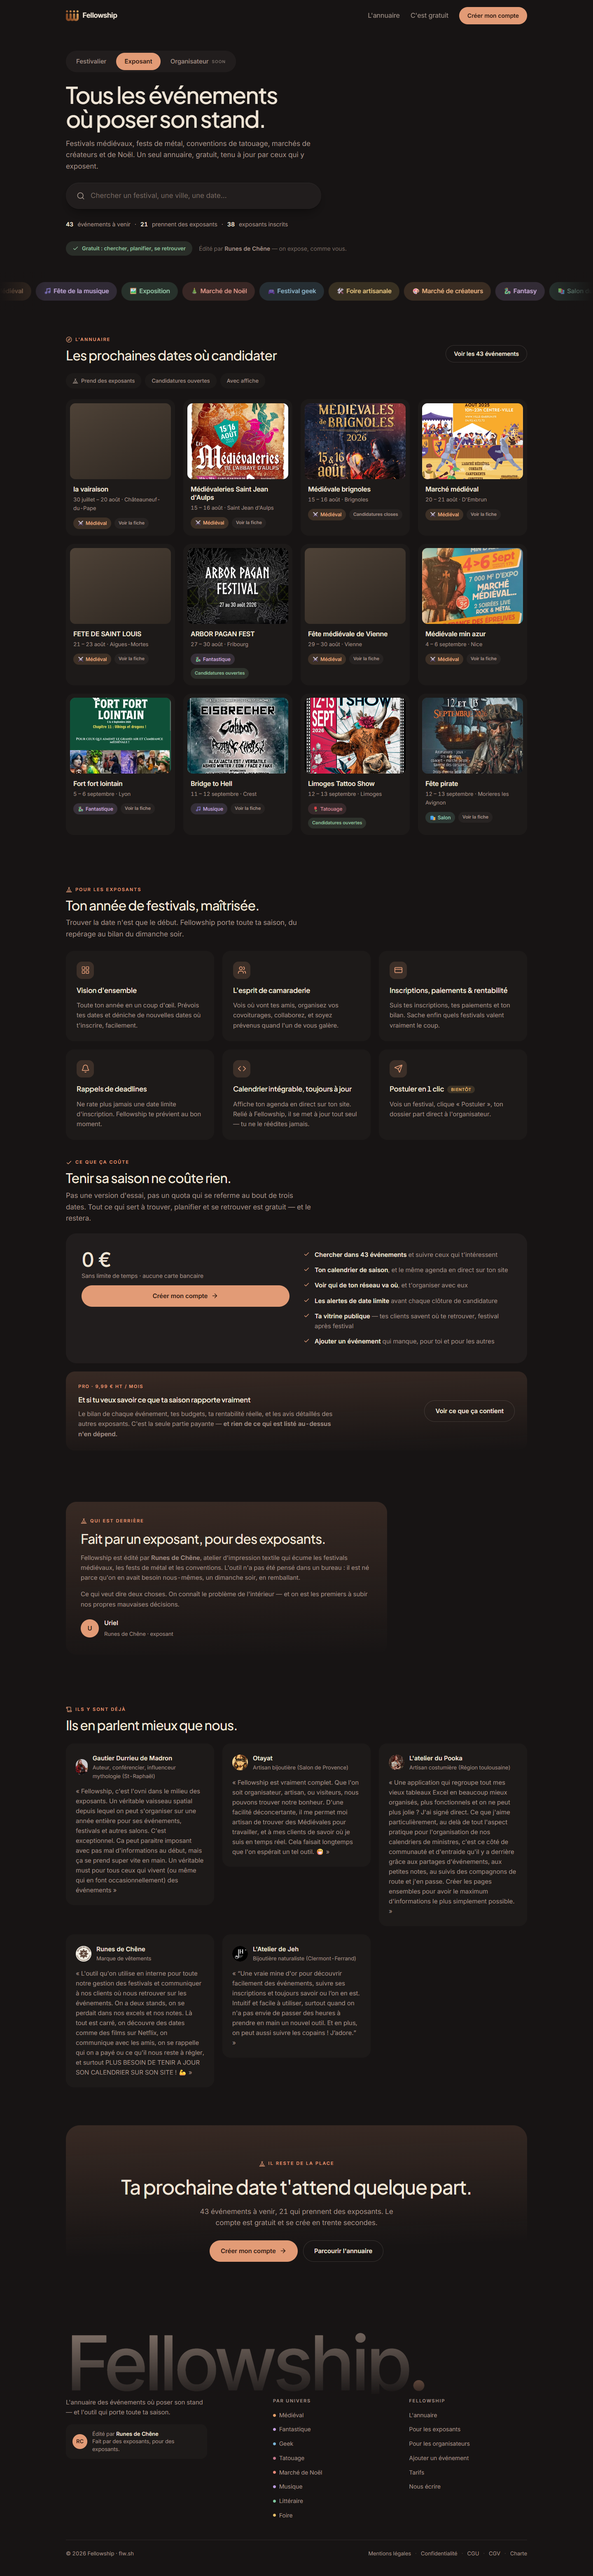
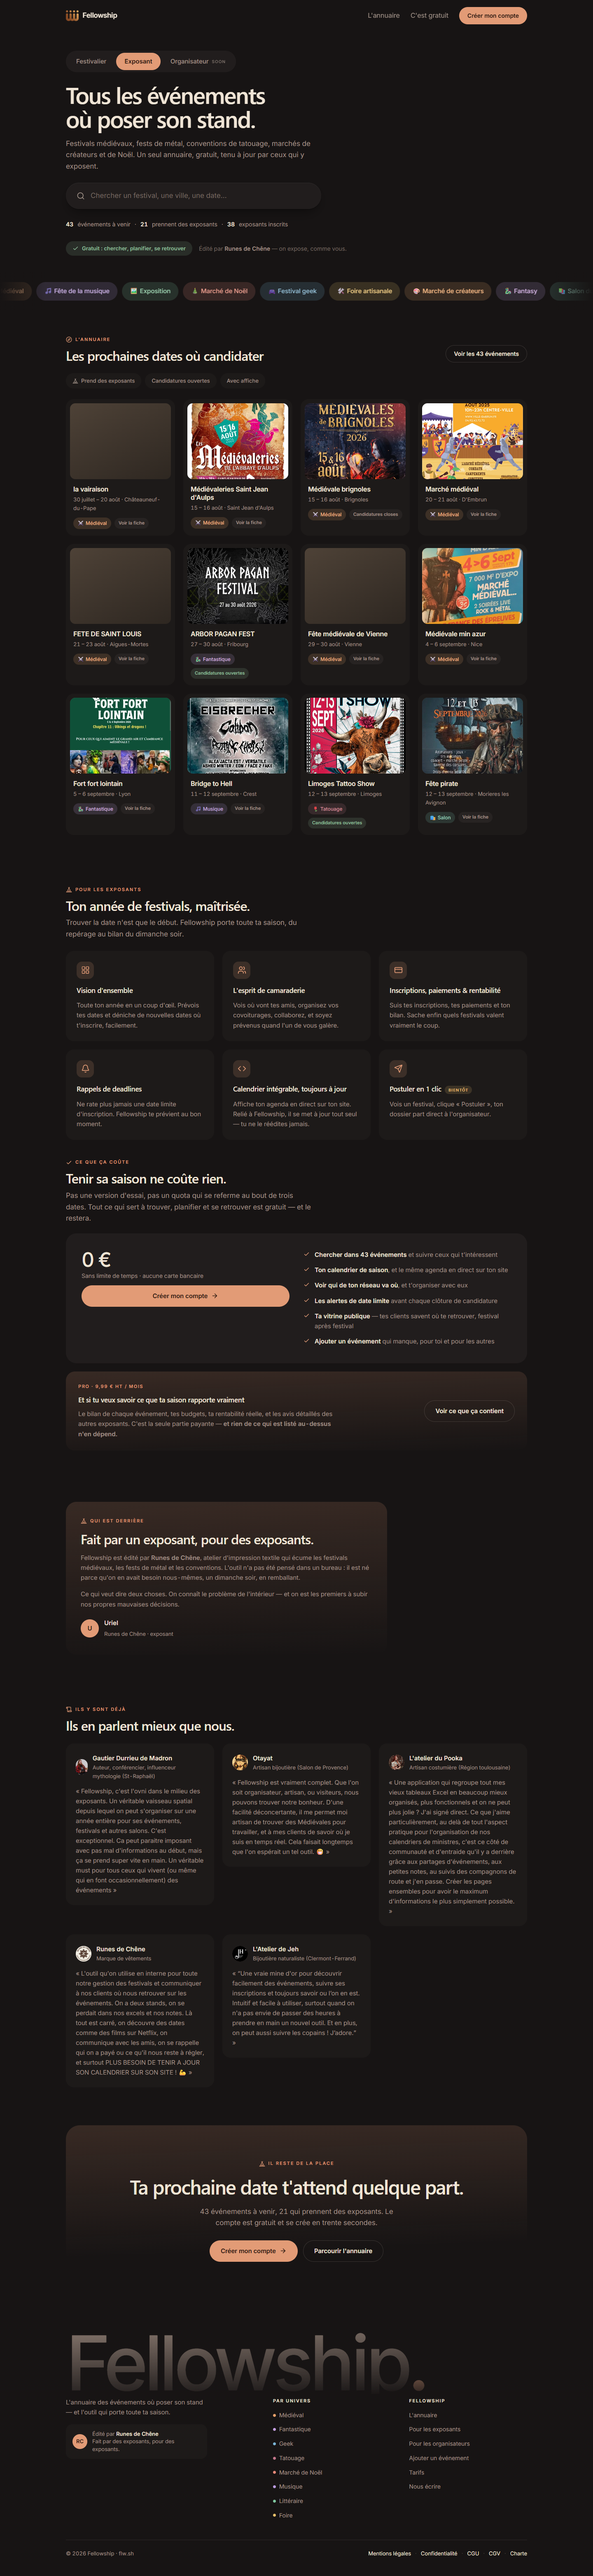
fix(landing-v2): honorer les vrais ratios de contraste au pied de page
Revue Task 9 : --ink-soft ne fait que 3,5:1 sur parchemin, pas un
« contraste acceptable » comme l'affirmaient les commentaires precedents
— sous la barre AA 4,5:1 pour du texte de 11-13px. Corrige en deux temps
au lieu d'aplatir toute la hierarchie :
- .lv2 .foot-col h4 (titres de colonne, 11px MAJUSCULES) et .lv2 .legal a
  (liens legaux, plus petit texte interactif de la page) promus a --ink
  (7,43:1 jour / 14,7:1 nuit) — ce sont des intitules de nav et des liens,
  pas des mentions secondaires.
- .lv2 .founder .sig .r, .lv2 .q-c, .lv2 .foot-bar .c restent en
  --ink-soft (metadonnee secondaire a cote d'un nom, meme arbitrage que
  .lv2 .chip qui precede ce chantier) — mais le commentaire dit maintenant
  la verite : 3,5:1, sous la barre AA, compromis assume au nom de la DA
  validee (decision 0007), pas un contraste suffisant.
Retire aria-live="assertive" redondant sur l'erreur de liste d'attente
(role="alert" l'implique deja). Captures jour/nuit reprises (le pied de
page change de couleur).

diff --git a/src/pages/LandingV2.css b/src/pages/LandingV2.css
@@ -269,8 +269,12 @@ html:not(.light) .lv2 {
 .lv2 .founder .sig { display: flex; align-items: center; gap: 13px; padding-top: 4px; }
 .lv2 .founder .sig .av { width: 44px; height: 44px; border-radius: 999px; background: var(--accent-lv2); color: var(--accent-ink); display: grid; place-items: center; font-weight: 700; font-size: .9375rem; }
 .lv2 .founder .sig .n { font-weight: 600; font-size: .9375rem; }
-/* --ink-soft, pas --ink-faint : porteur d'info (rôle de la signature) à 13px,
-   sous le seuil des 14px où --ink-faint tombe sous un contraste acceptable. */
+/* --ink-soft : #8C7B72/parchemin = 3,5:1, sous la barre AA 4,5:1 pour du texte
+   de cette taille (13px). C'est un compromis assumé, pas un contraste
+   suffisant : le rôle est une métadonnée secondaire posée à côté du nom
+   qu'elle qualifie, et la DA validée (décision 0007) veut ce texte plus
+   sourd que le principal — même arbitrage que .lv2 .chip, qui utilise déjà
+   --ink-soft à 13px et précède ce chantier. */
 .lv2 .founder .sig .r { font-size: .8125rem; color: var(--ink-soft); }
 
 /* ── Témoignages : vrais avis lus en base (useTestimonials), jamais les
@@ -281,8 +285,9 @@ html:not(.light) .lv2 {
 .lv2 .q-av { width: 38px; height: 38px; border-radius: 999px; background: var(--accent-wash); color: var(--accent-lv2); display: grid; place-items: center; font-weight: 700; font-size: .875rem; }
 .lv2 img.q-av { object-fit: cover; }
 .lv2 .q-n { font-weight: 600; font-size: .9375rem; }
-/* --ink-soft (pas --ink-faint) : même raison qu'au-dessus, le métier du
-   témoin est une information, pas une décoration, à 13px. */
+/* --ink-soft : même arbitrage qu'au-dessus (3,5:1, sous la barre AA 4,5:1 à
+   cette taille) — le métier du témoin est une métadonnée secondaire à côté
+   du nom, la DA validée la veut plus sourde que le principal. */
 .lv2 .q-c { font-size: .8125rem; color: var(--ink-soft); }
 .lv2 .q blockquote { margin: 0; font-size: .9375rem; color: var(--ink-soft); line-height: 1.6; }
 .lv2 .q-link { text-decoration: none; color: inherit; display: block; }
@@ -334,11 +339,13 @@ html:not(.light) .lv2 {
 .lv2 .foot-by .t strong { color: var(--ink); font-weight: 600; }
 
 .lv2 .foot-col { display: flex; flex-direction: column; gap: 12px; }
-/* --ink-soft (pas --ink-faint) : ce sont des intitulés de navigation
-   (« Par univers », « Fellowship »), porteurs d'info à 11px. */
+/* --ink : ce sont des intitulés de navigation (« Par univers », «
+   Fellowship »), à 11px MAJUSCULES — le pire cas des cinq sur le contraste
+   (--ink-soft n'y ferait que 3,5:1). Promu à l'encre pleine (7,43:1 jour,
+   14,7:1 nuit), pas laissé à --ink-faint (2,16:1, illisible ici). */
 .lv2 .foot-col h4 {
   font-size: .6875rem; font-weight: 700; letter-spacing: .16em;
-  text-transform: uppercase; color: var(--ink-soft); margin: 0 0 2px;
+  text-transform: uppercase; color: var(--ink); margin: 0 0 2px;
 }
 /* .foot-col a couvre les vrais liens (Fellowship, légal) ; .foot-col button
    couvre les univers, qui filtrent au clic plutôt que de naviguer — même
@@ -356,13 +363,17 @@ html:not(.light) .lv2 {
   display: flex; align-items: center; justify-content: space-between;
   gap: 18px; flex-wrap: wrap;
 }
-/* --ink-soft (pas --ink-faint) sur le copyright et les liens légaux : à 13px,
-   ce sont des liens réels et une mention d'info, pas une décoration — le
-   séparateur « · » ci-dessous, lui, reste décoratif et garde --ink-faint. */
+/* --ink-soft sur le copyright : 3,5:1, sous la barre AA 4,5:1 à 13px —
+   compromis assumé (mention d'info secondaire, pas un lien), même arbitrage
+   que .founder .sig .r et .q-c ci-dessus. Le séparateur « · », lui, est
+   purement décoratif et garde --ink-faint (2,16:1, sans conséquence ici). */
 .lv2 .foot-bar .c { font-size: .8125rem; color: var(--ink-soft); }
 .lv2 .legal { display: flex; gap: 10px; flex-wrap: wrap; font-size: .8125rem; }
-.lv2 .legal a { color: var(--ink-soft); text-decoration: none; }
-.lv2 .legal a:hover { color: var(--ink); }
+/* --ink (pas --ink-soft) : ce sont des LIENS, la plus petite taille de texte
+   de la page (13px) — le texte interactif ne peut pas se permettre le
+   compromis de contraste qu'on accepte sur une métadonnée statique. */
+.lv2 .legal a { color: var(--ink); text-decoration: none; }
+.lv2 .legal a:hover { color: var(--accent-lv2); }
 .lv2 .legal span { color: var(--ink-faint); opacity: .55; }
 
 @media (max-width: 900px) { .lv2 .foot-grid { grid-template-columns: 1fr 1fr; gap: 34px; } }

diff --git a/src/pages/LandingV2.tsx b/src/pages/LandingV2.tsx
@@ -404,7 +404,7 @@ export function LandingV2Page() {
                     <button type="button" className="btn btn-ghost" onClick={() => setShowOrgaWaitlist(true)}>Être prévenu au lancement</button>
                   )}
                   {waitlistStatus === 'error' && waitlistError && (
-                    <p className="waitlist-error" role="alert" aria-live="assertive">{waitlistError}</p>
+                    <p className="waitlist-error" role="alert">{waitlistError}</p>
                   )}
                 </div>
               </div>
